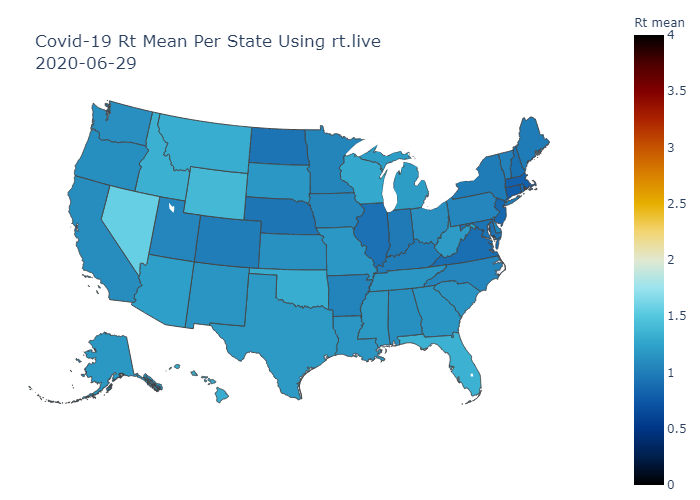
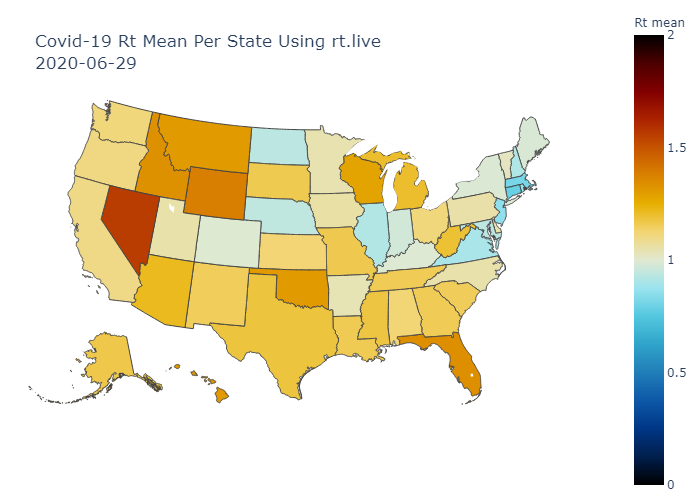
added in heat maps of RT

diff --git a/rt_map_US.py b/rt_map_US.py
@@ -77,7 +77,9 @@ for new_date in dates_list:
                                 locations='state', 
                                 color='rt_mean',
                                 color_continuous_scale="icefire",
-                                range_color=(0, 4),
+                                # range_color=(0, 4),
+                                range_color=(0, 2),
+
                                 # locationmode = 'USA-states',
                                 featureidkey = "properties.STATE",
                                 hover_name = "state",
@@ -97,19 +99,19 @@ for new_date in dates_list:
 
 
 #%%
-# from PIL import Image, ImageDraw
-# import PIL
-# import os
-# images = []
-# directory = 'C:/Users/karas/.spyder-py3/coronavirus/images_rt'
-# for filename in os.listdir(directory):
-#     # print("hi")
-#     f = Image.open('C:/Users/karas/.spyder-py3/coronavirus/images_rt/'+filename)
-#     # f = f.save(filename)
-#     images.append(f)
+from PIL import Image, ImageDraw
+import PIL
+import os
+images = []
+directory = 'C:/Users/karas/.spyder-py3/coronavirus/images_rt'
+for filename in os.listdir(directory):
+    # print("hi")
+    f = Image.open('C:/Users/karas/.spyder-py3/coronavirus/images_rt/'+filename)
+    # f = f.save(filename)
+    images.append(f)
 
-# print(len(images))   
-# #%%
-# images[0].save('covid_timeline_rt.gif',
-#                 save_all=True, append_images=images[1:], optimize=False, duration=400, loop=0)
+print(len(images))   
+
+images[0].save('covid_timeline_rt_centered1.gif',
+                save_all=True, append_images=images[1:], optimize=False, duration=500, loop=0)
 

diff --git a/us_counties_death_per_cases.py b/us_counties_death_per_cases.py
@@ -345,7 +345,7 @@ def main():
             # states_heat_map(specific_date_df):
     
             fig.write_image("images_counties/"+new_date+"_county_per100k.png")
-        break
+        # break
 #%%
 if __name__ == "__main__":
     main()
@@ -363,9 +363,9 @@ for filename in os.listdir(directory):
     images.append(f)
 
 print(len(images))   
-#%%
+
 images[0].save('covid_timeline_county_cases.gif',
-                save_all=True, append_images=images[1:], optimize=False, duration=400, loop=0)
+                save_all=True, append_images=images[1:], optimize=False, duration=500, loop=0)
 
 #%%
 #Graveyard
